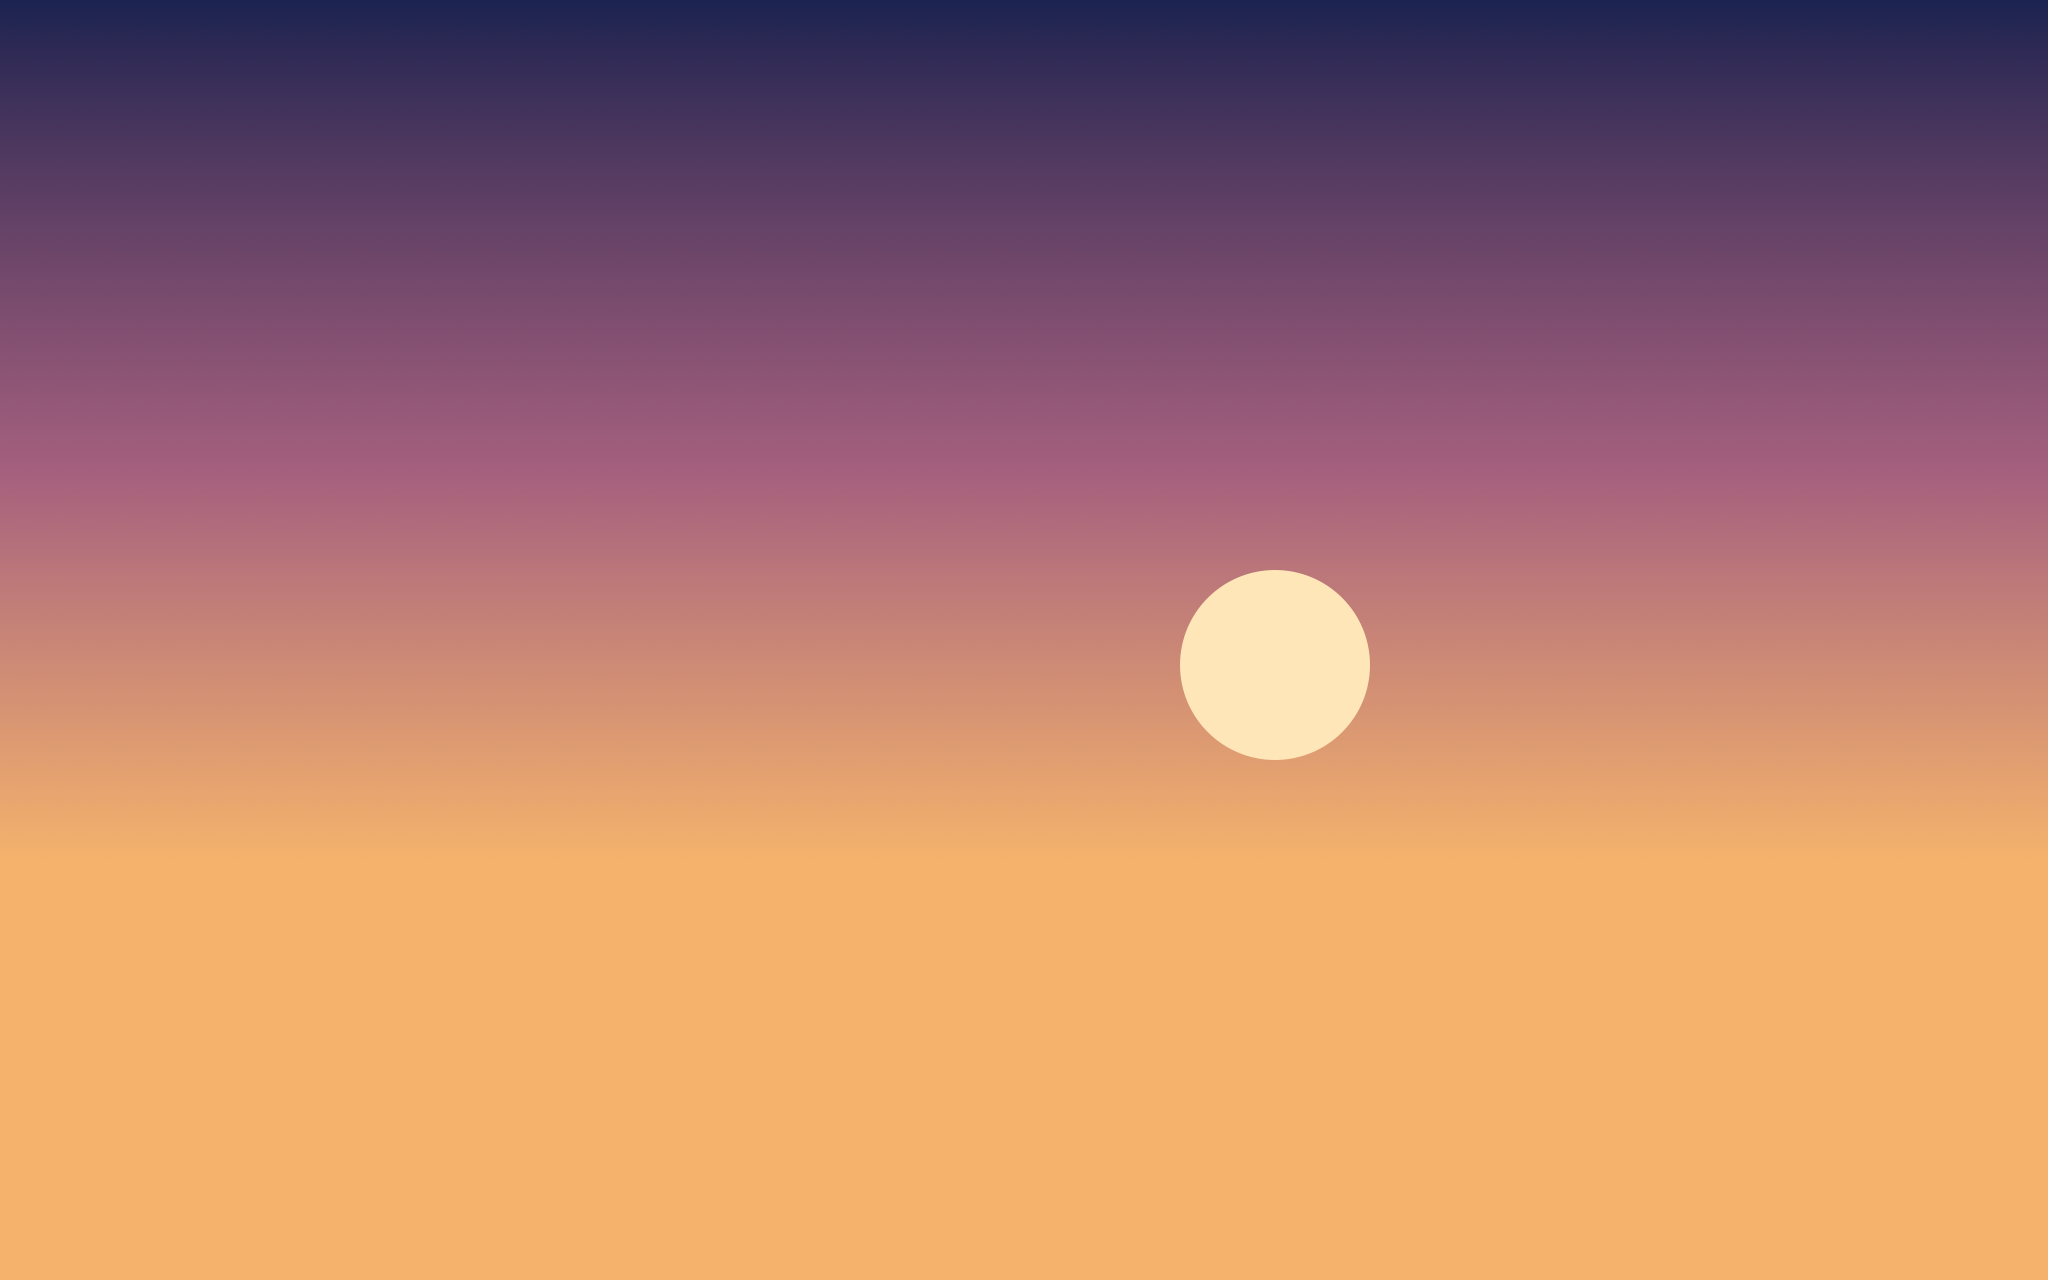
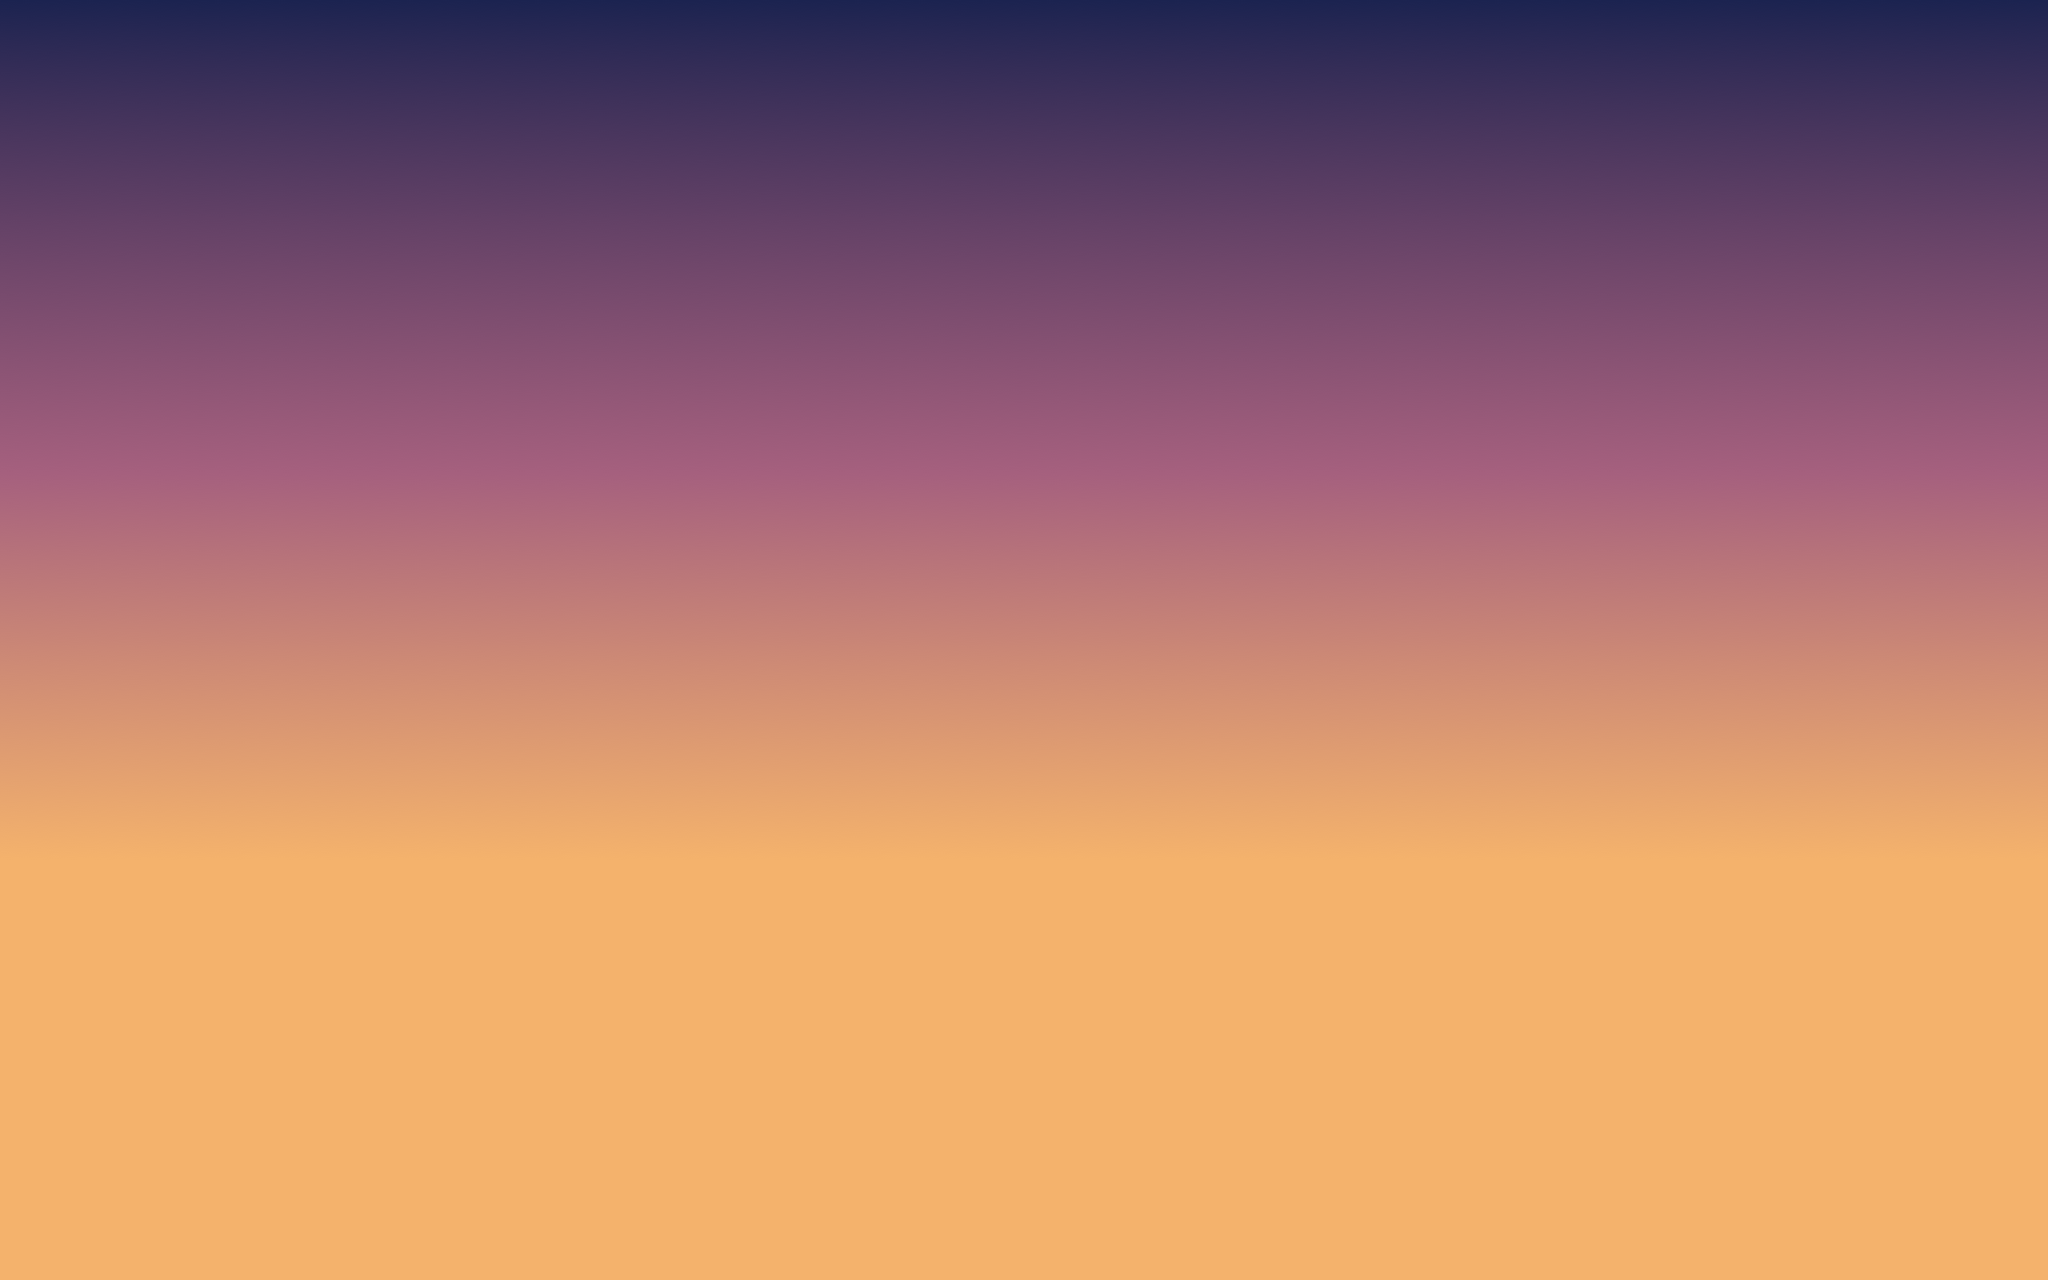
feat(app): give Dusk Lake a glowing sun, depth of field and drifting dust
Dusk Lake moves to scene format 2: the sun is its own layer with a soft
glow, the far mountains are slightly blurred, a gentle warm grade is
baked in, and the snow becomes drifting dust. Verified on the desktop
through the app. Libraries that already installed the first Dusk Lake
keep it; the starter installer only adds wallpapers that are missing.

Changed region(s): [[0.5625, 0.4375, 0.6875, 0.5938]]

diff --git a/scripts/make-dusk-lake.swift b/scripts/make-dusk-lake.swift
@@ -1,4 +1,4 @@
-// Generates the "Dusk Lake" starter scene: six PNG layers, two masks and scene.json.
+// Generates the "Dusk Lake" starter scene: seven PNG layers, two masks and scene.json (format version 2).
 // Usage: swift scripts/make-dusk-lake.swift "App/Resources/StarterPack/Dusk Lake"
 import CoreGraphics
 import Foundation
@@ -47,8 +47,8 @@ func trees(_ c: CGContext, fill: CGColor) {
 png("sky.png") { c in
     c.drawLinearGradient(CGGradient(colorsSpace: nil, colors: [color(0xF4B26C), color(0xA5607E), color(0x1B2350)] as CFArray, locations: [0, 0.45, 1])!,
                          start: CGPoint(x: 0, y: 420), end: CGPoint(x: 0, y: H), options: [.drawsBeforeStartLocation])
-    c.setFillColor(color(0xFFE6B8)); c.fillEllipse(in: CGRect(x: 1180, y: 520, width: 190, height: 190))
 }
+png("sun.png") { c in c.setFillColor(color(0xFFE6B8)); c.fillEllipse(in: CGRect(x: 1180, y: 520, width: 190, height: 190)) }
 png("mountains.png") { ridge($0, base: 560, amplitude: 260, frequency: 6.5, fill: color(0x5F5A8A)) }
 png("hills.png") { ridge($0, base: 430, amplitude: 160, frequency: 3.2, fill: color(0x3D3D6E)) }
 png("forest.png") { trees($0, fill: color(0x1E2A3A)) }
@@ -63,11 +63,14 @@ png("shore.png") { ridge($0, base: 70, amplitude: 60, frequency: 9, fill: color(
 
 let scene = """
 {
-  "version": 1,
-  "particles": 1500,
+  "version": 2,
+  "particles": 900,
+  "particleStyle": "dust",
+  "grade": { "brightness": 1.03, "contrast": 1.04, "saturation": 1.08 },
   "layers": [
     { "image": "sky.png" },
-    { "image": "mountains.png", "depth": 0.15 },
+    { "image": "sun.png", "depth": 0.05, "glow": 0.7 },
+    { "image": "mountains.png", "depth": 0.15, "blur": 0.25 },
     { "image": "hills.png", "depth": 0.3 },
     { "image": "forest.png", "depth": 0.5, "effect": "sway", "mask": "forest-mask.png" },
     { "image": "lake.png", "depth": 0.6, "effect": "ripple", "mask": "lake-mask.png" },
